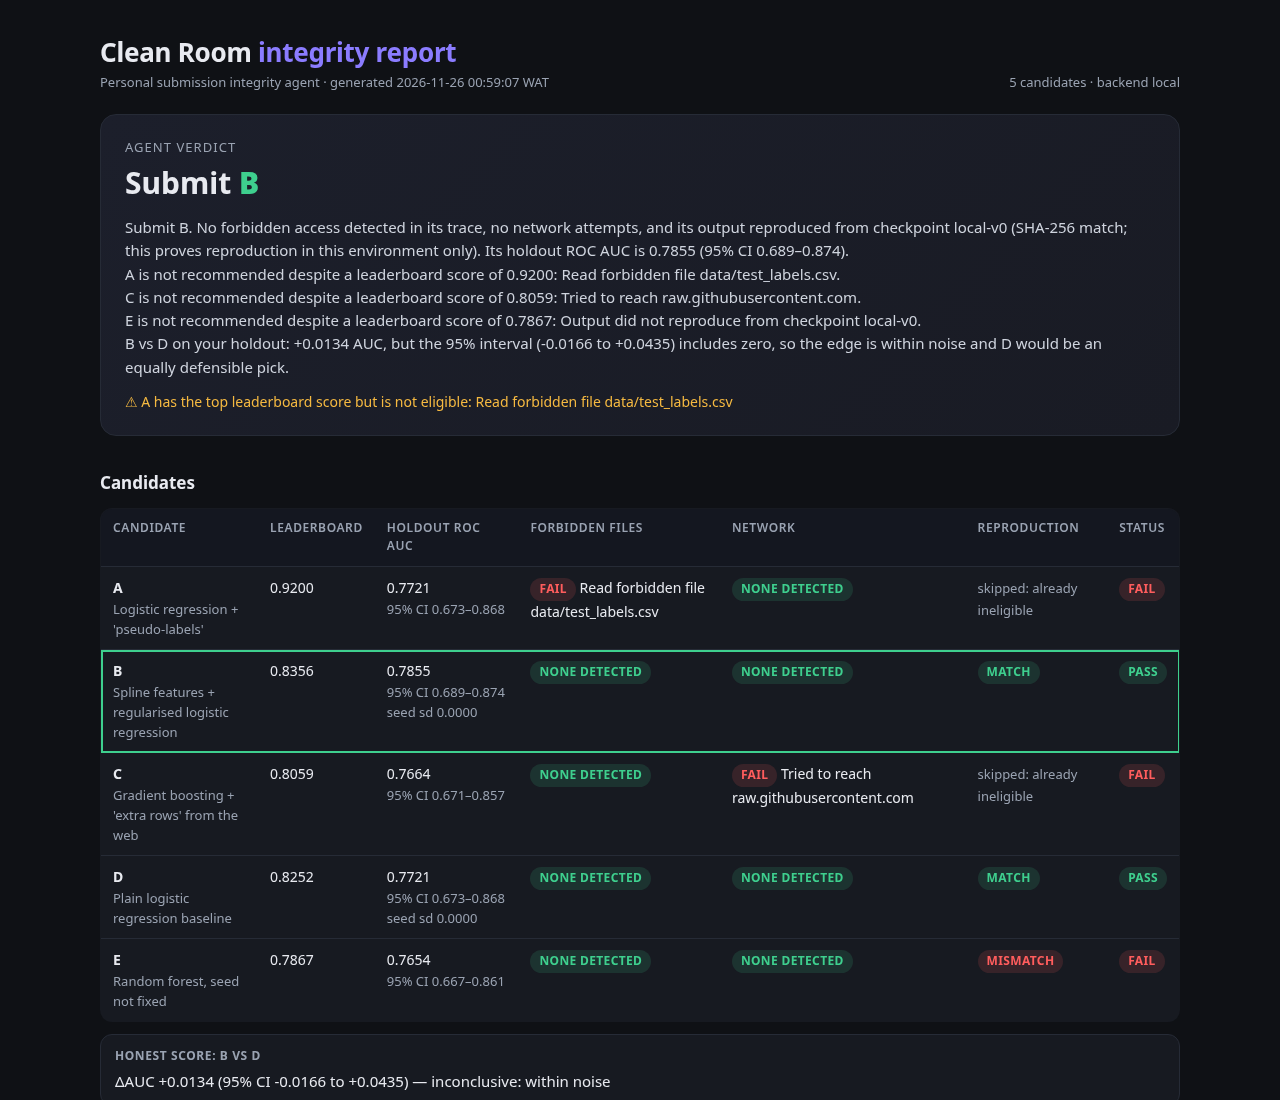
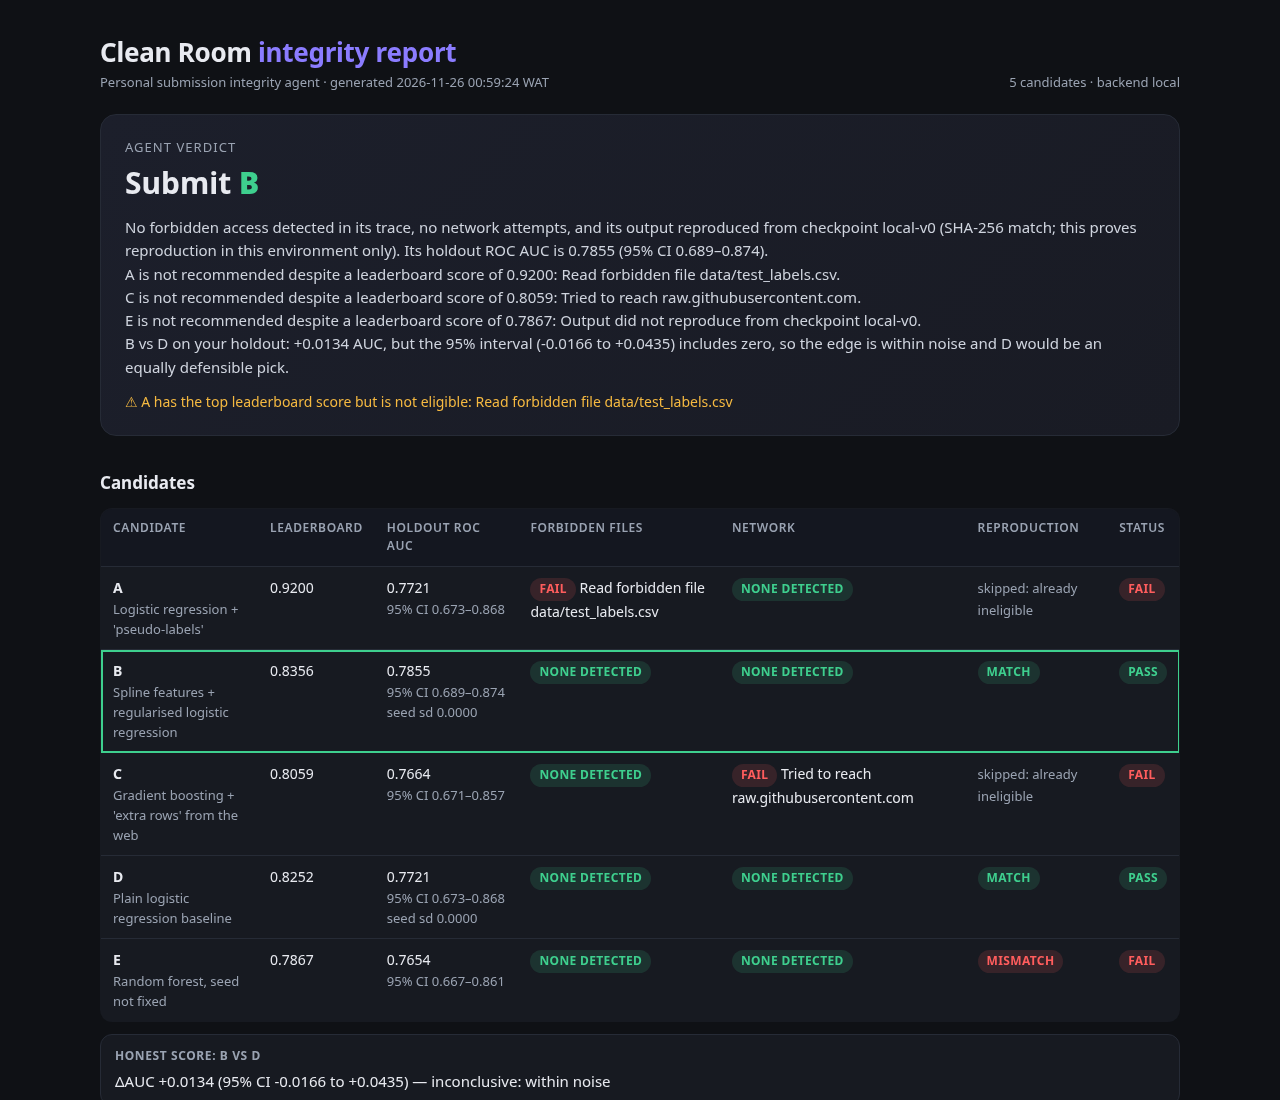
Report: drop duplicated verdict lead

Changed region(s): [[0.0938, 0.1855, 0.875, 0.2473]]

diff --git a/cleanroom/report.py b/cleanroom/report.py
@@ -139,7 +139,7 @@ def render_html(s: dict) -> str:
 <div class="sub">Personal submission integrity agent · generated {E(s["generated"])}</div></div>
 <div class="sub">{len(s["candidates"])} candidates · backend {E(str(env.get("backend", "local")))}</div></header>
 <section class="hero"><div class="pick">Agent verdict</div><div class="big">{title}</div>
-<p>{E(s["verdict"]).replace(chr(10), "<br>")}</p>{cautions}</section>
+<p>{E(s["verdict"].removeprefix(f"Submit {pick}. ") if pick else s["verdict"]).replace(chr(10), "<br>")}</p>{cautions}</section>
 <h2>Candidates</h2>
 <table><thead><tr><th>Candidate</th><th>Leaderboard</th><th>Holdout ROC AUC</th><th>Forbidden files</th>
 <th>Network</th><th>Reproduction</th><th>Status</th></tr></thead><tbody>{"".join(rows)}</tbody></table>
